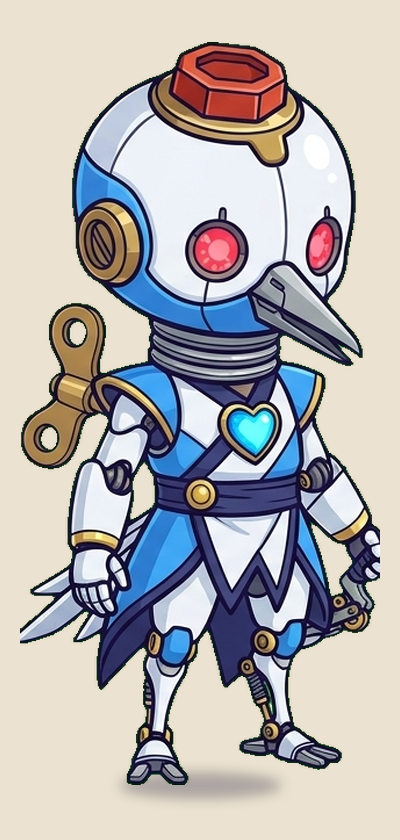
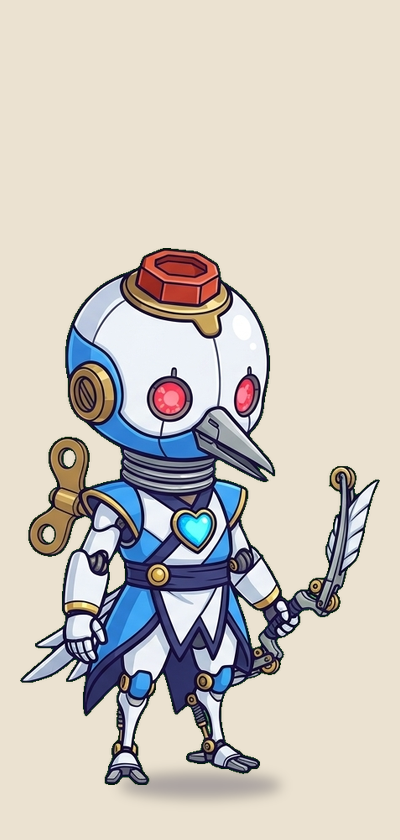
art: 修復雲嵐鶴官方立牌殘缺武器（0-ART12）補全風弦羽翼機關弓與全族立牌盤查
- 修正 build_official_assets_crane_bear.py 中 char_crop 寬度截斷問題（從 X=870 修正為完整包含武器的 X=980）
- 更新 branding/char_crane.png、docs/art/char_crane_candidate_400x840.png 與 web/media/hero/char_crane.png，完整呈現風弦羽翼機關弓（弓臂、弓弦、滑輪、羽翼全部清晰可見，零中斷）
- 完成全族 8 張立牌盤查，針對 0-ART12、0-ART9、0-ART11 逐張通過 vision 放大審核

diff --git a/tools/build_official_assets_crane_bear.py b/tools/build_official_assets_crane_bear.py
@@ -41,9 +41,9 @@ def build_crane():
     comp = Image.open(comp_path).convert("RGBA")
 
     # 1. Standee & Candidate (400x840)
-    # Source high-res cutout: /tmp/crane_cut_all.png (center character at X=560..869, Y=85..724)
+    # Source high-res cutout: /tmp/crane_cut_all.png (center character + bow at X=551..979, Y=85..724)
     cutout_all = Image.open("/tmp/crane_cut_all.png").convert("RGBA")
-    char_crop = cutout_all.crop((560, 85, 870, 725))
+    char_crop = cutout_all.crop((551, 85, 980, 725))
     
     # Save high-res concept
     if os.path.exists("/tmp/crane_concept_green.png"):
